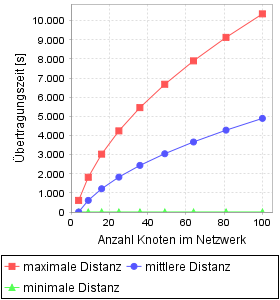
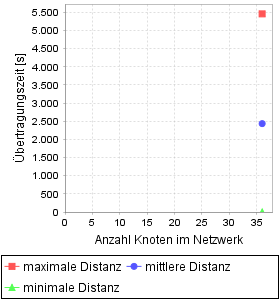
cost analysis implementiert

diff --git a/src/DSDV/DsdvNetworkNode.java b/src/DSDV/DsdvNetworkNode.java
@@ -14,6 +14,7 @@ public class DsdvNetworkNode extends NetworkNode{
 	private long numberTransmittedUpdateMsg;
 	private LinkedList<PayloadMessage> msgWaintingBuffer;
 	private long sequenceNumber;
+	private boolean propagateNetworkStructure;
 	
 	
 	public DsdvNetworkNode(int id) {
@@ -24,16 +25,19 @@ public class DsdvNetworkNode extends NetworkNode{
 		msgWaintingBuffer = new LinkedList<PayloadMessage>();
 		this.sequenceNumber = 0;
 		this.forwardTable.add(new ForwardTableEntry(this.id,-1, 0, this.sequenceNumber, 0L));
+		this.propagateNetworkStructure = true;
 	}
 	
 	protected void performeTimeDependentTasks(long executionTime){
-		if(this.lastUpdate >= UPDATE_INTERVAL){
-
-			this.sendForwardTableUpdate();
-			this.lastUpdate = 0;
-		}
-		else{
-			lastUpdate += executionTime;
+		if(propagateNetworkStructure){
+			if(this.lastUpdate >= UPDATE_INTERVAL){
+	
+				this.sendForwardTableUpdate();
+				this.lastUpdate = 0;
+			}
+			else{
+				lastUpdate += executionTime;
+			}
 		}
 	}
 
@@ -60,7 +64,10 @@ public class DsdvNetworkNode extends NetworkNode{
 		}
 		else{
 			if(receivedMsg instanceof PayloadMessage){
-				System.out.println(simulator.getNetworkLifetime() + " - Node " + id + ": recive Payloadmsg from Node " + receivedMsg.getSenderID() + ". Source: " + ((PayloadMessage)receivedMsg).getPayloadSourceAdress() + " Sink: " + ((PayloadMessage)receivedMsg).getPayloadDestinationAdress() + " NextHop: "+ receivedMsg.getDestinationID());
+				//System.out.println(simulator.getNetworkLifetime() + " - Node " + id + ": recive Payloadmsg from Node " + receivedMsg.getSenderID() + ". Source: " + ((PayloadMessage)receivedMsg).getPayloadSourceAdress() + " Sink: " + ((PayloadMessage)receivedMsg).getPayloadDestinationAdress() + " NextHop: "+ receivedMsg.getDestinationID()
+				if(((PayloadMessage)receivedMsg).getPayloadDestinationAdress() == this.id){
+					System.out.println(simulator.getNetworkLifetime() + " - Node " + id + ": recive Payloadmsg from Node " + receivedMsg.getSenderID() + ". Source: " + ((PayloadMessage)receivedMsg).getPayloadSourceAdress() + " TransmissionTime: " + (simulator.getNetworkLifetime() - receivedMsg.getStartTransmissionTime()));
+				}
 				this.receivePayloadMessage((PayloadMessage)receivedMsg);
 			}
 		}
@@ -162,7 +169,10 @@ public class DsdvNetworkNode extends NetworkNode{
 					msg.setDestinationID(entry.getNextHop());
 					
 					if(((PayloadMessage)msg).getPayloadSourceAdress() == this.id){
-						System.out.println("Node: " +this.id + " send msg to node " + ((PayloadMessage)msg).getPayloadDestinationAdress() + ". Distance: " + entry.getMetric());
+						System.out.println(simulator.getNetworkLifetime() + " Node: " +this.id + " send msg to node " + ((PayloadMessage)msg).getPayloadDestinationAdress() + ". Distance: " + entry.getMetric());
+					}
+					else{
+						System.out.println(simulator.getNetworkLifetime() + " Node: " +this.id + " forward msg to node " + msg.getDestinationID() + ". SinkNode: " + ((PayloadMessage)msg).getPayloadDestinationAdress() +  " Distance: " + entry.getMetric() + " TransmissionTime: " + (simulator.getNetworkLifetime() - msg.getStartTransmissionTime()));
 					}
 					
 					this.outputBuffer.add(msg);
@@ -178,6 +188,18 @@ public class DsdvNetworkNode extends NetworkNode{
 
 	public long getNumberTransmittedUpdateMsg() {
 		return numberTransmittedUpdateMsg;
+	}
+
+	public LinkedList<ForwardTableEntry> getForwardTable() {
+		return forwardTable;
+	}
+
+	public boolean isPropagateNetworkStructure() {
+		return propagateNetworkStructure;
+	}
+
+	public void setPropagateNetworkStructure(boolean propagateNetworkStructure) {
+		this.propagateNetworkStructure = propagateNetworkStructure;
 	}
 
 }

diff --git a/src/DSDV/DsdvSimulator.java b/src/DSDV/DsdvSimulator.java
@@ -1,11 +1,13 @@
 package DSDV;
 
+import SimulationNetwork.NetworkNode;
 import SimulationNetwork.PayloadMessage;
 import SimulationNetwork.Simulator;
 
 public class DsdvSimulator extends Simulator{
 	
 	private long msgTransmissionTime; 
+	private long energyCostsForPropagationNetworkStructure;
 	
 	public long speedAnalysis(int networkWidth, int sourceNodeId, int destinationNodeId) {
 
@@ -22,8 +24,56 @@ public class DsdvSimulator extends Simulator{
 		return time;
 	}
 	
+	public long energyCostAnalysis(int networkWidth, int sourceNodeId, int destinationNodeId) {
+
+		DsdvNetworkGraph graph = new DsdvNetworkGraph(networkWidth);
+		NetworkNode networkNodes[] = graph.getNetworkNodes();
+		this.networkLifetime = 0L;
+		
+		for (int id = 0; id < networkNodes.length; id++) {
+			((DsdvNetworkNode)networkNodes[id]).setSimulator(this);
+		}
+		
+		//Propagate network structure
+		do {
+			// Performe 1 ms every iteration
+			for (int id = 0; id < networkNodes.length; id++) {
+				networkNodes[id].performAction(NODE_EXECUTION_TIME);
+			}
+		}while(((DsdvNetworkNode)networkNodes[networkNodes.length-1]).getForwardTable().size() < networkNodes.length);
+		
+		//network structure known in all nodes
+		//suspend propagation of network structure
+		for (int id = 0; id < networkNodes.length; id++) {
+			((DsdvNetworkNode)networkNodes[id]).setPropagateNetworkStructure(false);
+		}
+		
+		//Sum energy costs for propagation of network structure
+		long energyCostsPropagation = 0L;
+		for (int id = 0; id < networkNodes.length; id++) {
+			energyCostsPropagation += networkNodes[id].getConsumedEnergyInIdleMode();
+			energyCostsPropagation += networkNodes[id].getConsumedEnergyInReciveMode();
+			energyCostsPropagation += networkNodes[id].getConsumedEnergyInTransmissionMode();
+		}
+		this.energyCostsForPropagationNetworkStructure = energyCostsPropagation;
+
+		for (int id = 0; id < networkNodes.length; id++) {
+			networkNodes[id].resetBattery();
+		}
+		
+		long energyCosts = this.energyCostAnalysis(graph, networkWidth, sourceNodeId, destinationNodeId);
+		
+		setCollisions(graph.getCollisions());
+		
+		return energyCosts;
+	}
+	
 	public long getMsgTransmissionTime() {
 		return msgTransmissionTime;
+	}
+
+	public long getEnergyCostsForPropagationNetworkStructure() {
+		return energyCostsForPropagationNetworkStructure;
 	}
 
 }

diff --git a/src/SimulationNetwork/NetworkNode.java b/src/SimulationNetwork/NetworkNode.java
@@ -450,7 +450,7 @@ public abstract class NetworkNode {
 	}
 
 	public void resetBattery() {
-		this.availableEnery = NODE_BATTERY_ENERGY_FOR_ONE_HOUR_IN_IDLE_MODE;
+		this.availableEnery = NODE_BATTERY_ENERGY_FOR_ONE_DAY_IN_IDLE_MODE;
 		consumedEnergyInIdleMode = 0L;
 		consumedEnergyInReciveMode = 0L;
 		consumedEnergyInTransmissionMode = 0L;

diff --git a/src/Simulator/Main.java b/src/Simulator/Main.java
@@ -41,6 +41,7 @@ public class Main {
 		
 		
 		DsdvEvaluationUnit dsdvEvaluationUnit = new DsdvEvaluationUnit();
-		dsdvEvaluationUnit.evaluateSpeedAnalysis();
+		//dsdvEvaluationUnit.evaluateSpeedAnalysis();
+		dsdvEvaluationUnit.evaluateCostAnalysis();
 	}
 }
